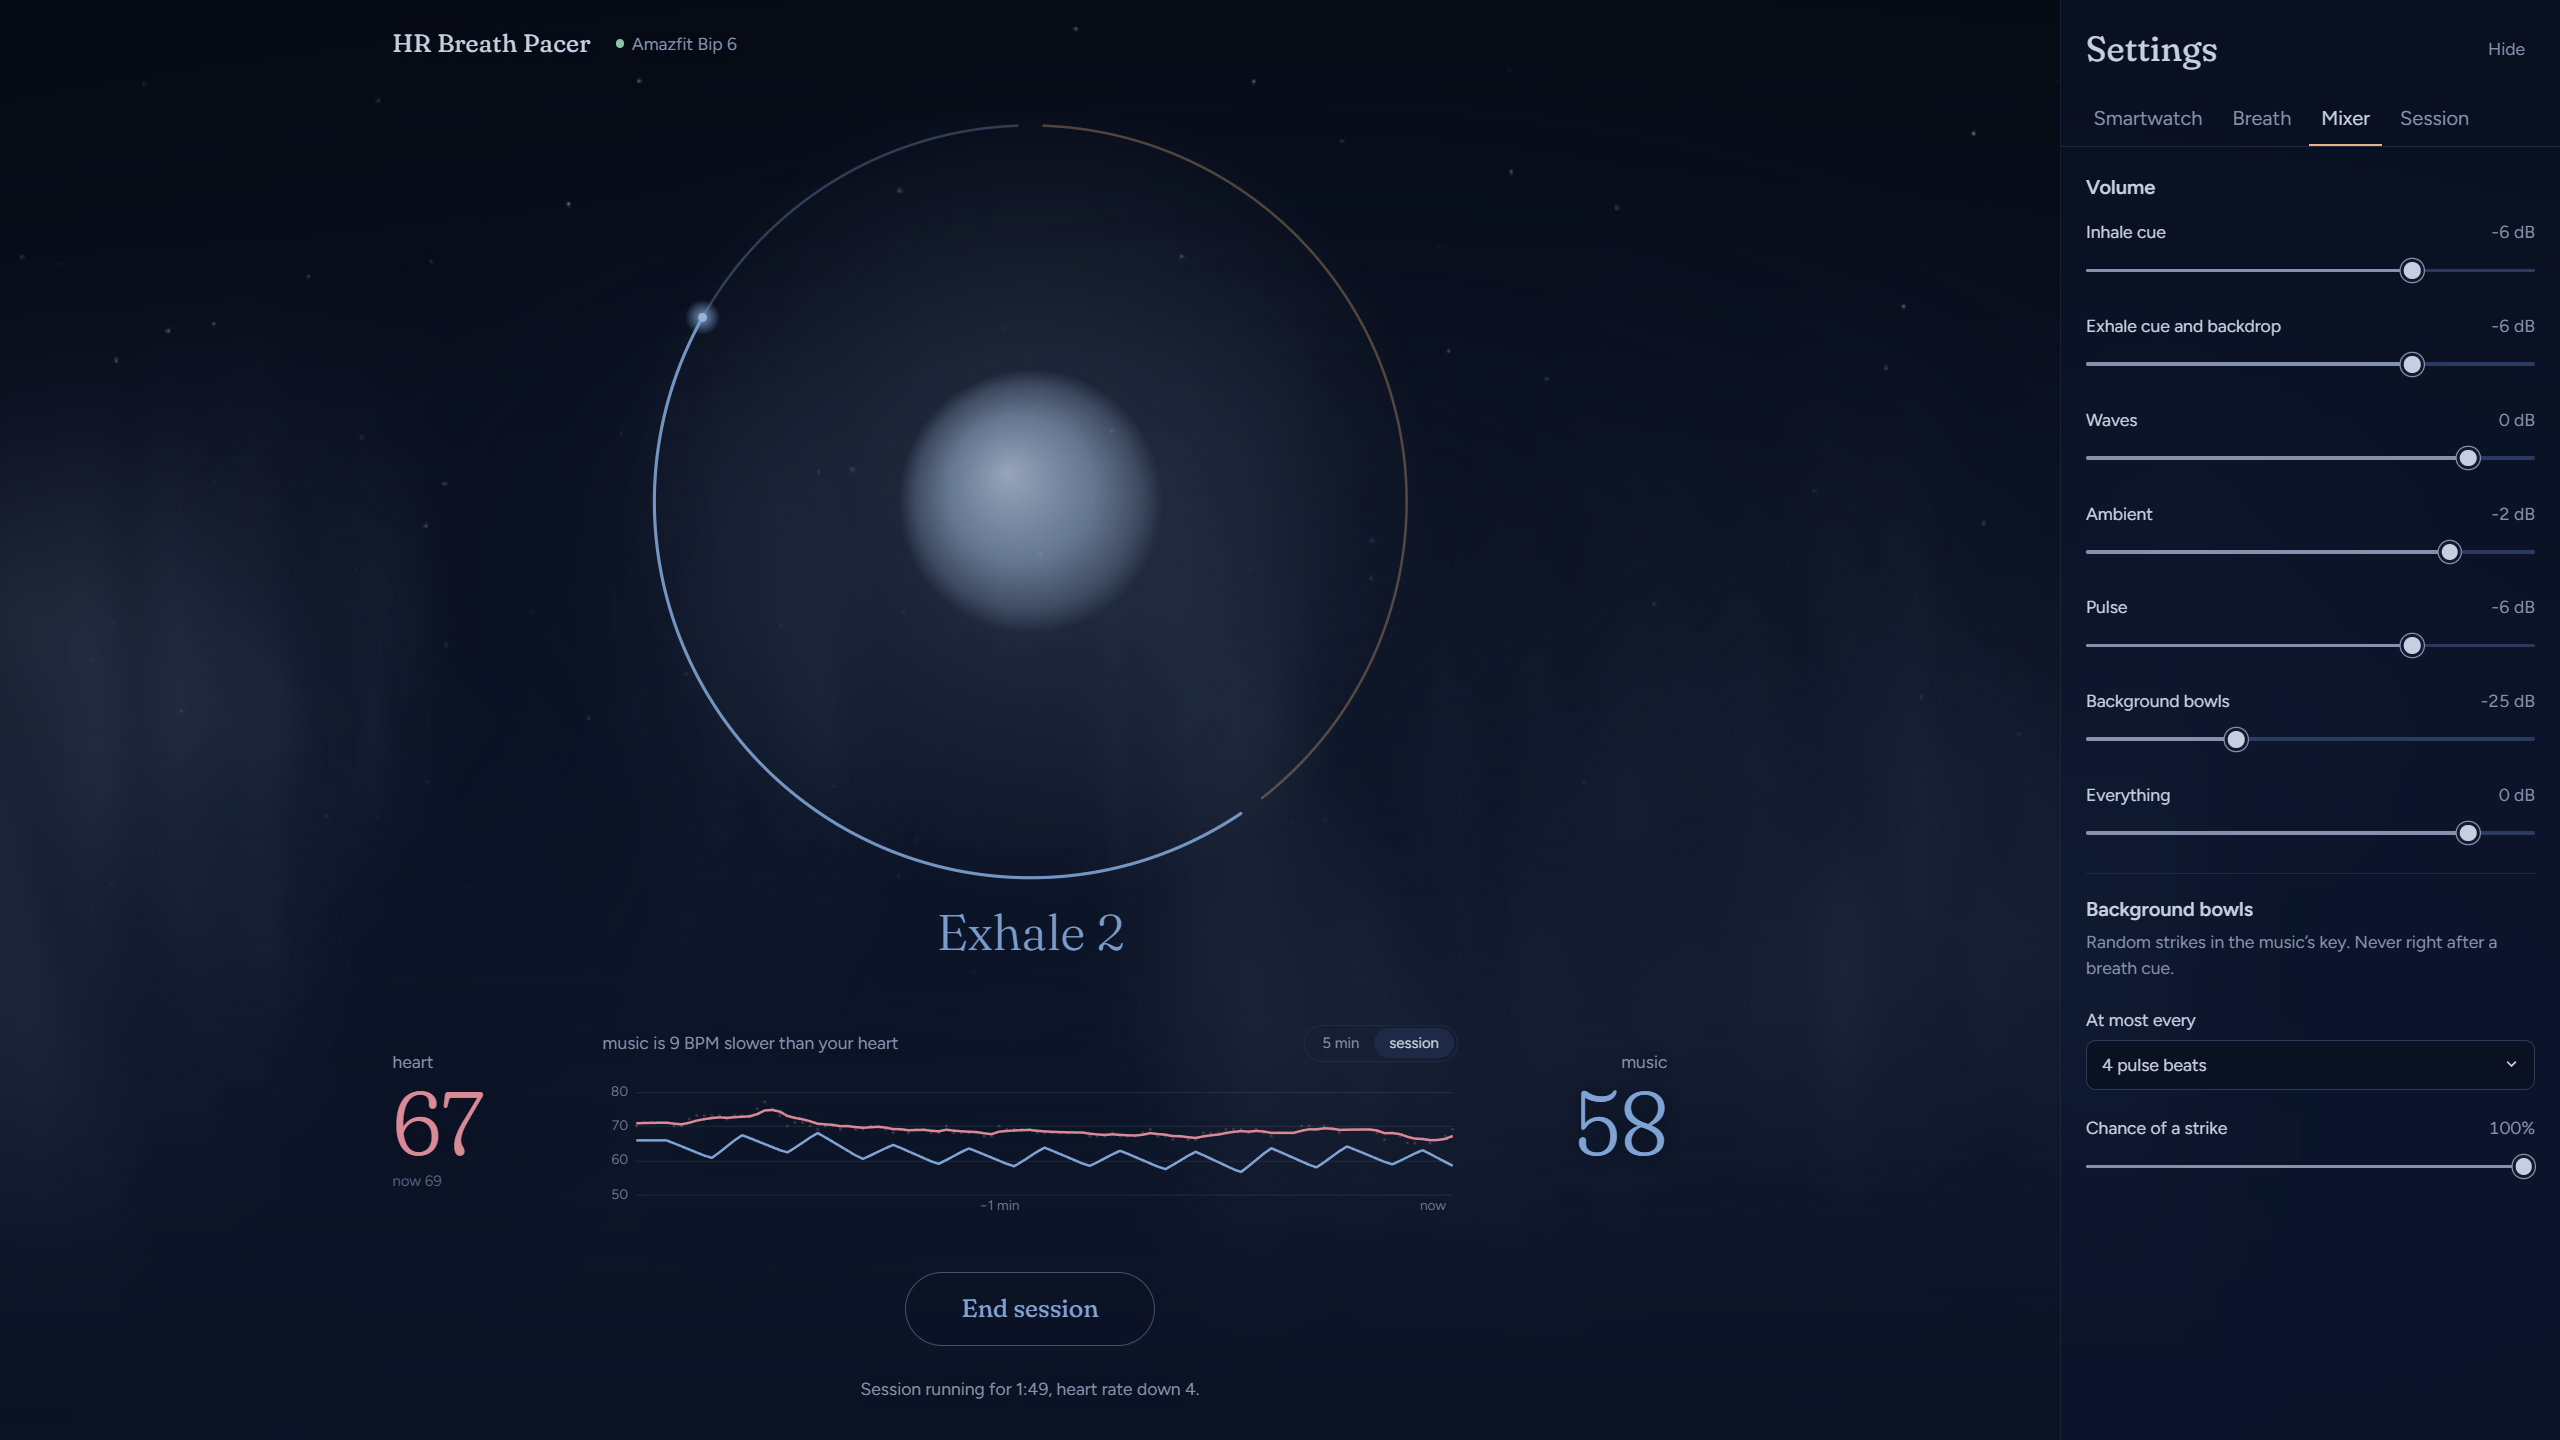
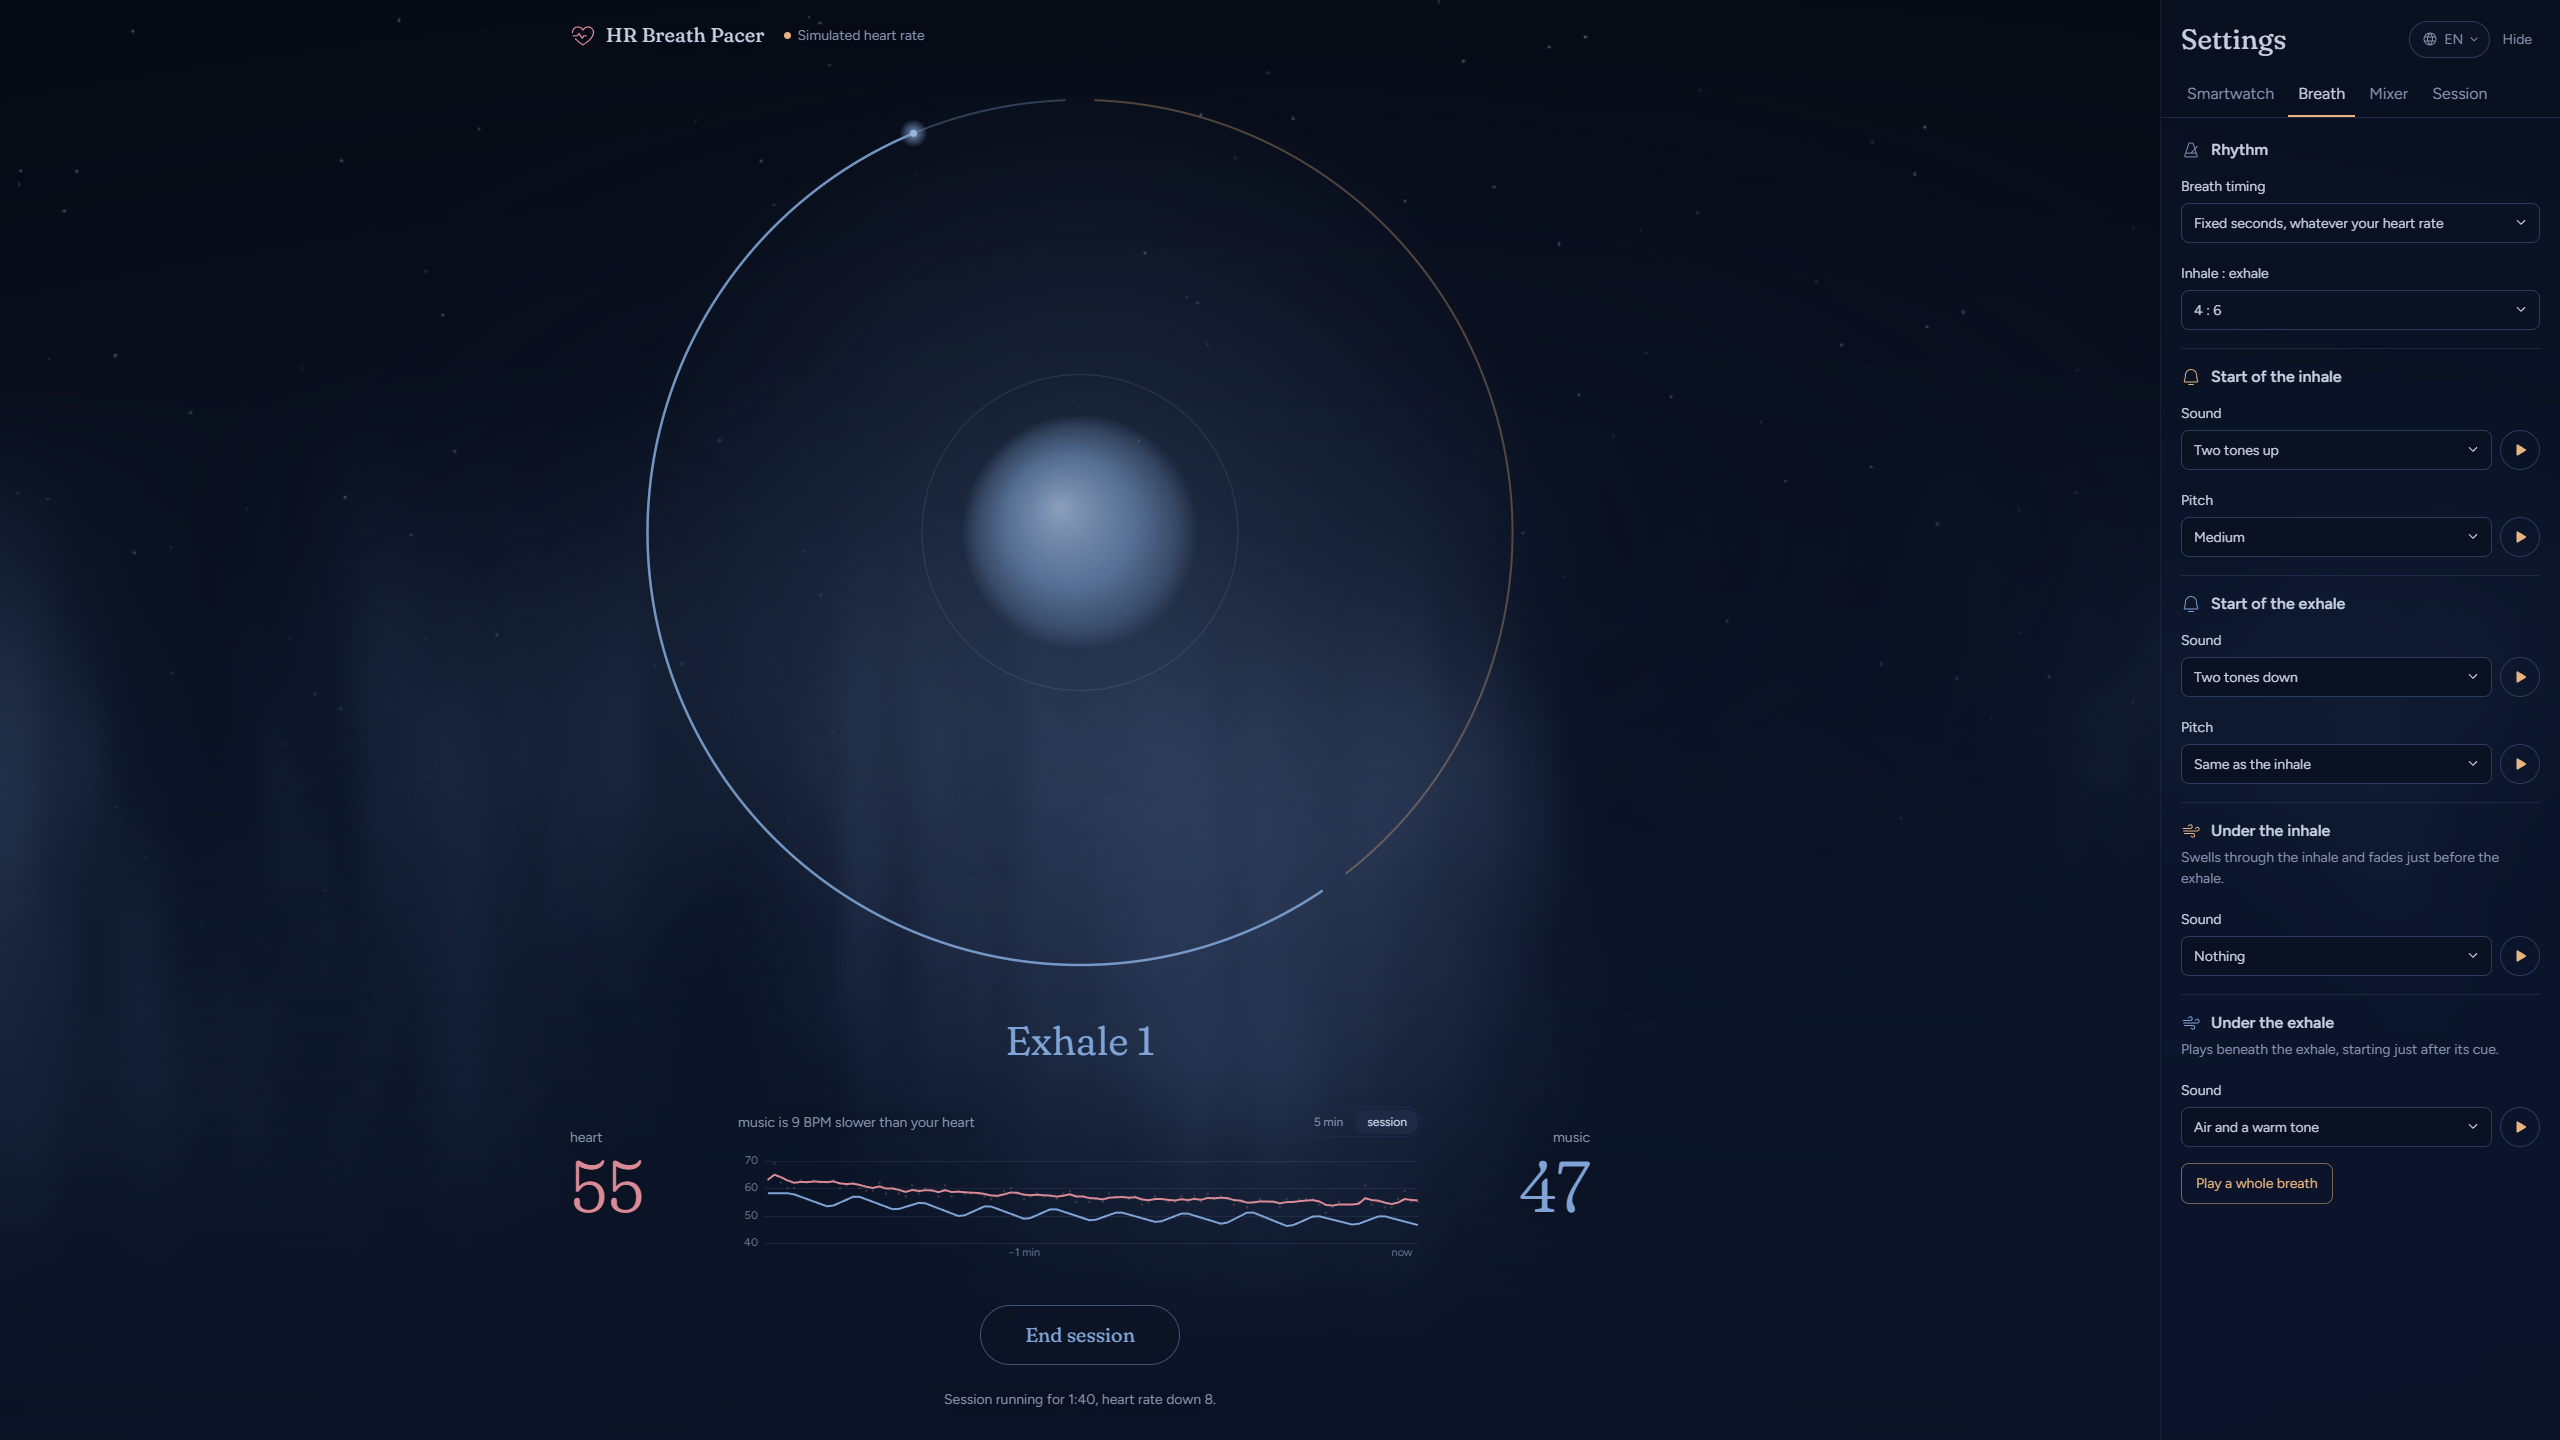
docs: custom domain in the README and fresh screenshots

diff --git a/README.md b/README.md
@@ -4,7 +4,7 @@ Calming music driven by your heart rate.
 
 It reads your pulse live from a Bluetooth smartwatch, plays generative ambient music a few beats per minute slower than your heart, and paces your breathing with a cue at the start of every inhale and exhale (4 in, 6 out by default). Your heart tends to follow the music down.
 
-**Try it:** [hr-breath-pacer.vercel.app](https://hr-breath-pacer.vercel.app), in Chrome on a computer or on an Android phone.
+**Try it:** [hr-breathe.maciejbiel.pl](https://hr-breathe.maciejbiel.pl), in Chrome on a computer or on an Android phone.
 
 ![HR Breath Pacer during an inhale](docs/screenshot_inhale.png)
 ![HR Breath Pacer during an exhale](docs/screenshot_exhale.png)
